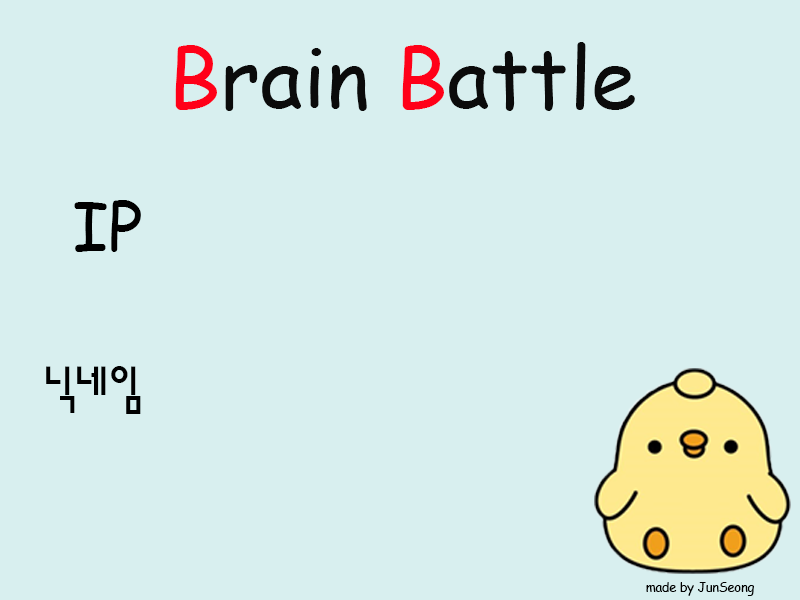
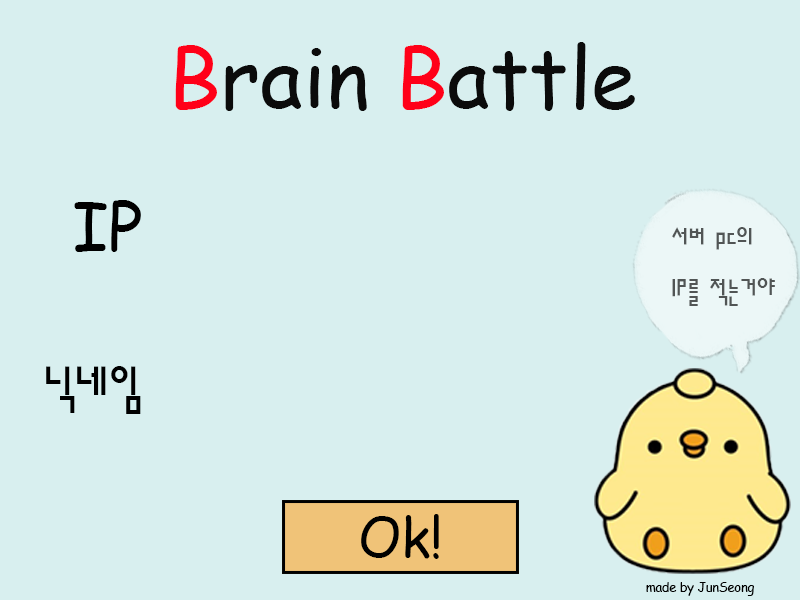
1119
문제 추가 및 BGM작업 중

Changed region(s): [[0.3438, 0.81, 0.6562, 0.96], [0.8438, 0.45, 0.9688, 0.51], [0.8438, 0.36, 0.9375, 0.42]]

diff --git a/src/gui/GamePanel.java b/src/gui/GamePanel.java
@@ -20,8 +20,6 @@ public class GamePanel extends JPanel{
 		setOpaque(false);
 		super.paintComponent(g);
 	}
-	
-
 	private JTextField tf = new JTextField();
 	private JButton ruleButton = new JButton(new ImageIcon(this.getClass().getClassLoader().getResource("RuleButton.png")));
 	private JLabel rule = new JLabel(new ImageIcon(this.getClass().getClassLoader().getResource("Rule.png")));
@@ -37,12 +35,15 @@ public class GamePanel extends JPanel{
 							   	   new JButton(new ImageIcon(this.getClass().getClassLoader().getResource("15.png")))}; 
 	private JLabel waitGoalScore = new JLabel(new ImageIcon(this.getClass().getClassLoader().getResource("setGoal.png")));
 	private JLabel timer = new JLabel(new ImageIcon(this.getClass().getClassLoader().getResource("T60.png")));
+	private JButton yes =  new JButton(new ImageIcon(this.getClass().getClassLoader().getResource("Yes.png")));
+	private JButton no =  new JButton(new ImageIcon(this.getClass().getClassLoader().getResource("No.png")));
 	private int goalScore = 0;
 	private int scoreImgIndexCount = 0;
 	private boolean playOk =false;
 	private boolean turnEnd = false;
 	private boolean wrong = false;
 	private boolean otherCorrect = false;
+	private boolean iAmCorrect  = false;
 
 	public GamePanel() {
 		this.setLayout(null);
@@ -138,6 +139,12 @@ public class GamePanel extends JPanel{
 	public boolean getOtherCorrect() {
 		return otherCorrect;
 	}
+	public void setIAmCorrect(boolean iAmCorrect) {
+		this.iAmCorrect = iAmCorrect;
+	}
+	public boolean getIAmCorrect() {
+		return iAmCorrect;
+	}
 	public JLabel getTimer() {
 		return timer;
 	}
@@ -147,7 +154,20 @@ public class GamePanel extends JPanel{
 		tf.setBounds(0, 885, 878, 50);
 		enter.setBounds(878, 885, 101, 50);
 	}
-	
+	public void setYesAndNo() {
+		add(yes);
+		add(no);
+		yes.addMouseListener(new MouseCursorEvent());
+		no.addMouseListener(new MouseCursorEvent());
+		yes.setBounds(198, 611, 237, 74);
+		no.setBounds(543, 611, 237, 74);
+	}
+	public JButton getYes() {
+		return yes;
+	}
+	public JButton getNo() {
+		return no;
+	}
 	public void setScoreImg() {
 		int y = 0;
 		int [] score = {3, 5, 7, 10, 15};

diff --git a/src/thread/TimerThread.java b/src/thread/TimerThread.java
@@ -16,6 +16,7 @@ public class TimerThread extends Thread{
 			"T11.png", "T10.png", "T9.png", "T8.png", "T7.png", "T6.png", "T5.png",
 			"T4.png", "T3.png", "T2.png", "T1.png"};
 	private static boolean timerStop = false;
+	private boolean timerEnd = false;
 	
 	public TimerThread(MainFrame mainFrame) {
 		this.mainFrame = mainFrame;
@@ -24,7 +25,7 @@ public class TimerThread extends Thread{
 	@Override
 	public void run() {
 		try {
-			while(true) {
+			while(!timerEnd) {
 			for(int i=0; i<=timer.length; i++) {
 				if(timerStop) 
 					break;
@@ -39,12 +40,15 @@ public class TimerThread extends Thread{
 			}
 		} catch (InterruptedException e) {
 			e.printStackTrace();
-		} catch (IllegalThreadStateException e) {
-			
-		}
+		} 
 	}
 	public static void setTimerStop(boolean stop) {
 		TimerThread.timerStop = stop;
+	}
+	
+	public void killTimer() {
+		this.timerEnd = true;
+		setTimerStop(true);
 	}
 }
 

diff --git a/src/thread/SetGoalThread.java b/src/thread/SetGoalThread.java
@@ -32,7 +32,6 @@ public class SetGoalThread extends Thread {
 			Collections.shuffle(question.getQuestionList());
 			GameThread gameThread = new GameThread(mainFrame, socket,question.toString().split("/"));
 			gameThread.start();
-			System.out.println(question);
 			writer.println("questionList/"+question);
 			
 		} catch (IOException e1) {
